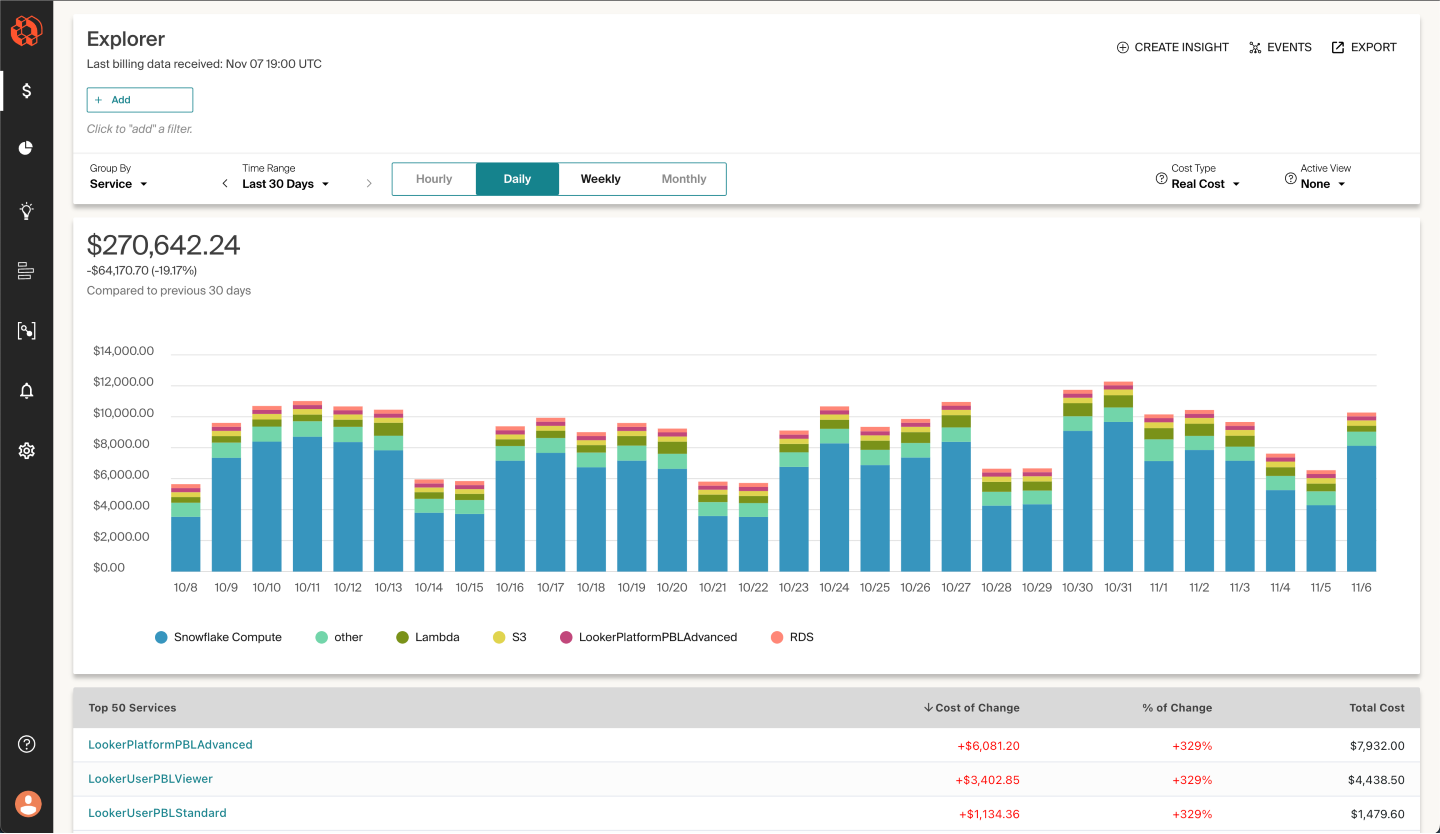
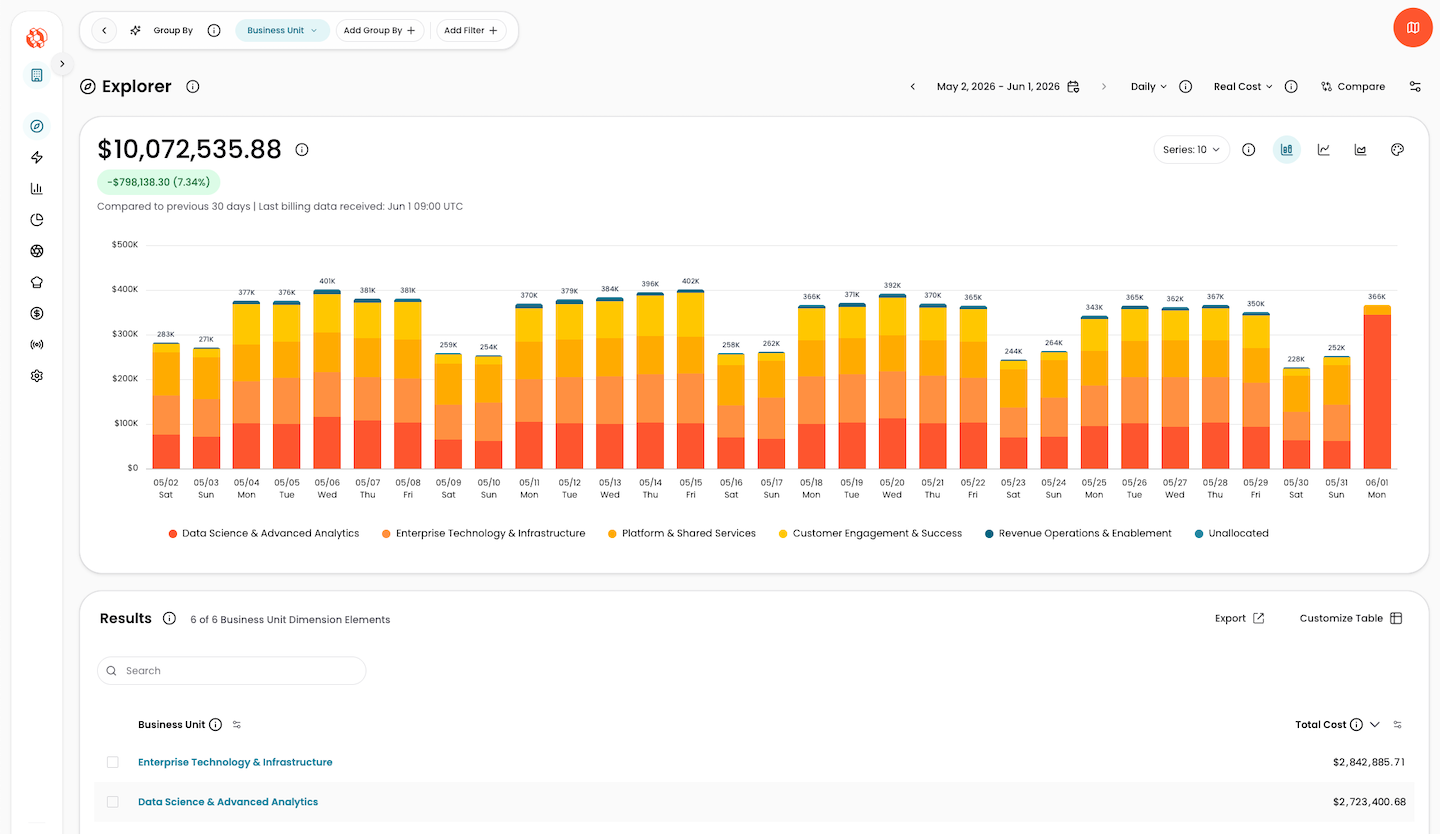
CloudZero UI update (#3022)
* updates onboarding_url

* update frontend images

* update url in readme

* crop images

* update changelog

* update CODEOWNERS for cloudzero to Cloud Nine team

Commit Generated with AI

* adds legacy uri

Pull request: CloudZero UI update
### What does this PR do?

Updates CloudZero redirect_uri and UI screenshots.

### Motivation

CloudZero is migrating to a new UI platform and needs to update the Datadog integration to match. 

### Review checklist

- [ ] PR has a [meaningful title](https://github.com/DataDog/integrations-core/blob/master/CONTRIBUTING.md#pull-request-title) or PR has the `no-changelog` label attached
- [ ] Feature or bugfix has tests
- [ ] Git history is clean
- [ ] If PR impacts documentation, docs team has been notified or an issue has been opened on the [documentation repo](https://github.com/DataDog/documentation/issues/new)
- [ ] If this PR includes a log pipeline, please add a description describing the remappers and processors. 

### Additional Notes

Anything else we should know when reviewing?

diff --git a/cloudzero/CHANGELOG.md b/cloudzero/CHANGELOG.md
@@ -1,5 +1,12 @@
 # CHANGELOG - CloudZero
 
+## 1.4.0 / 2026-06-01
+
+**_Changed_**:
+
+* Updated OAuth redirect URIs and onboarding URL to the new `/settings/connections` path
+* Refreshed product screenshots
+
 ## 1.3.0 / 2025-03-05
 
 **_Added_**:

diff --git a/cloudzero/README.md b/cloudzero/README.md
@@ -37,7 +37,7 @@ Need help? Contact [CloudZero support][6].
 
 [1]: https://app.cloudzero.com
 [2]: /integrations/cloudzero
-[3]: https://app.cloudzero.com/organization/connections
+[3]: https://app.cloudzero.com/settings/connections
 [4]: https://app.cloudzero.com/explorer
 [5]: /organization-settings/api-keys
 [6]: mailto:[email redacted]